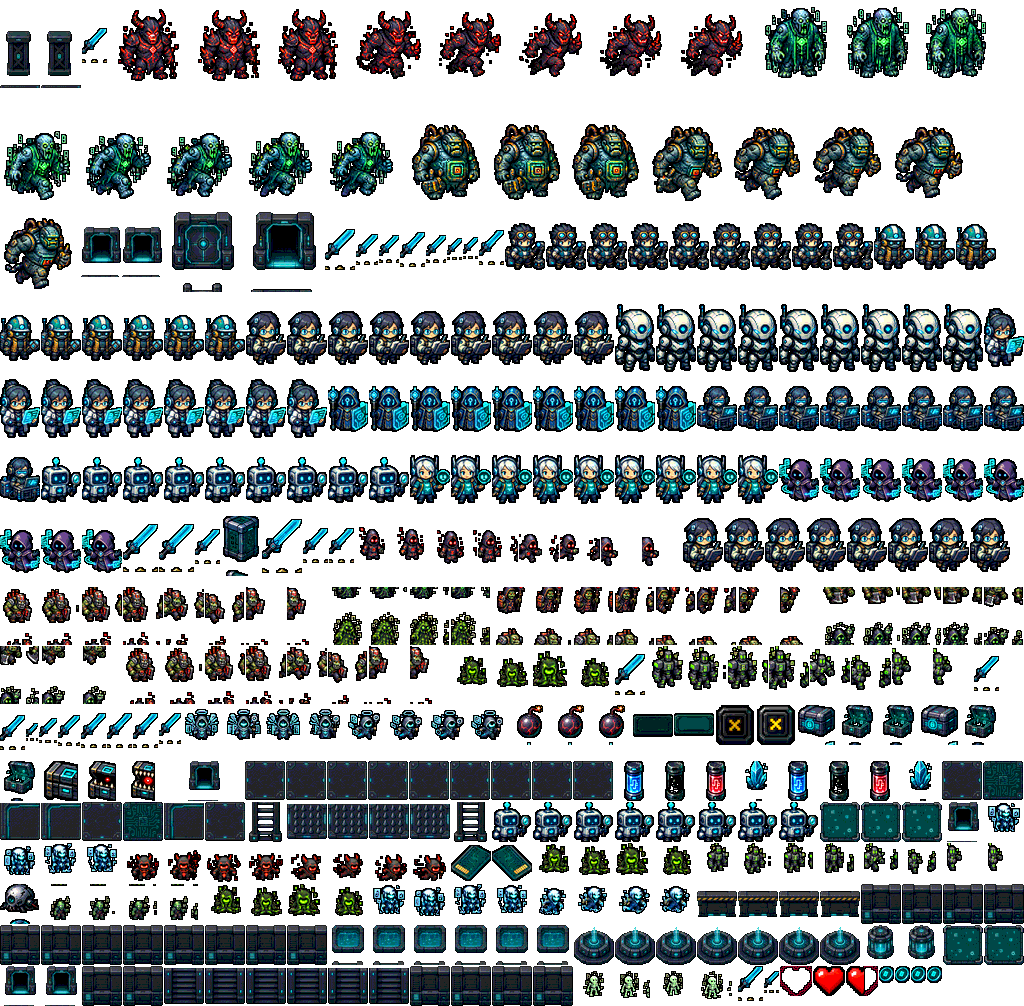
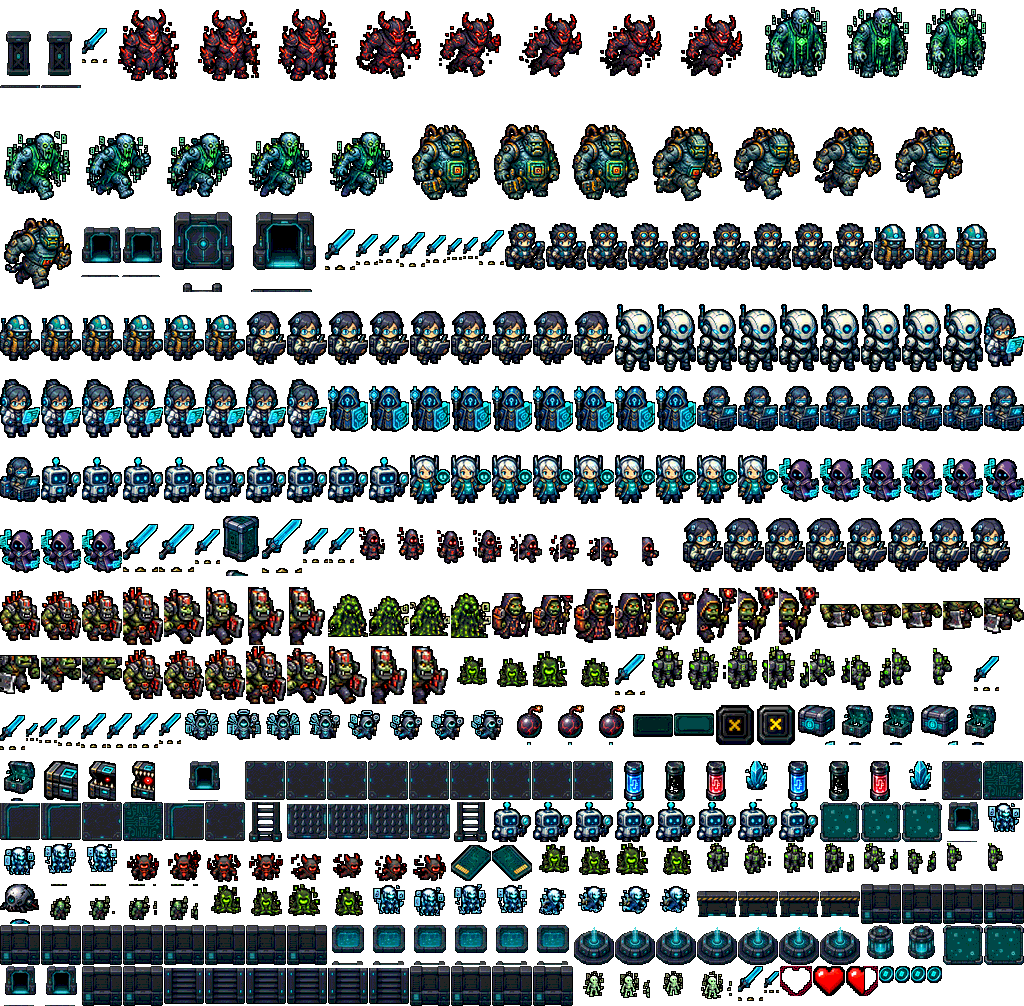
fix: 🩹 enemies-16x23 碎片怪 cleanup 改 dark-grid+largest-alpha
HD 烘焙后暴露:masked_orc/orc_shaman/orc_warrior/necromancer/pumpkin_dude
(enemies-16x23.png row1-4)的源 cell 在统一 7×8 网格下吃进相邻 sprite 渗入 +
散落辉光粒子,dark-grid cleanup 只去暗底全保留 → 烘成「主体+分离碎块」。
给这 5 个 row 的 cleanup 追加 +largest-alpha(只留最大连通块),重烘双包。

验证:逐帧 diff 仅这 5 类敌人帧变化(英雄/地砖/道具/Boss 未动);
量化 detached 这 5 类降到 0 可疑帧(总可疑 neon 73→37/synth 66→30,余者为
剑+柄/柱+座等良性多部件);dungeon.json 零变化(布局不变,仅像素)。
pytest 12 / bun test 1054·0 / tsc 0 / biome 0 / verify:artpack 双包通过。

Changed region(s): [[0.0, 0.5855, 1.0, 0.7087]]

diff --git a/scripts/art/apply-gpt-image-overrides.py b/scripts/art/apply-gpt-image-overrides.py
@@ -578,6 +578,7 @@ def source_row_overrides(
     row: int,
     frames: list[str],
     source_cols_for_frames: list[int],
+    cleanup: str = "dark-grid",
 ) -> tuple[Override, ...]:
     return tuple(
         {
@@ -586,7 +587,7 @@ def source_row_overrides(
             "sourceCell": row * source_cols + source_col,
             "sourceCols": source_cols,
             "sourceRows": source_rows,
-            "cleanup": "dark-grid",
+            "cleanup": cleanup,
             "frame": frame,
         }
         for frame, source_col in zip(frames, source_cols_for_frames)
@@ -617,7 +618,9 @@ def enemy_16x16_anim_row(prefix: str, row: int) -> tuple[Override, ...]:
     )
 
 
-def enemy_16x23_row(prefix: str, row: int) -> tuple[Override, ...]:
+def enemy_16x23_row(
+    prefix: str, row: int, cleanup: str = "dark-grid"
+) -> tuple[Override, ...]:
     return source_row_overrides(
         category="enemies",
         source_sheet="enemies/enemies-16x23.png",
@@ -626,10 +629,13 @@ def enemy_16x23_row(prefix: str, row: int) -> tuple[Override, ...]:
         row=row,
         frames=idle_run_frame_names(prefix),
         source_cols_for_frames=[0, 1, 2, 3, 4, 5, 6, 6],
+        cleanup=cleanup,
     )
 
 
-def enemy_16x23_anim_row(prefix: str, row: int) -> tuple[Override, ...]:
+def enemy_16x23_anim_row(
+    prefix: str, row: int, cleanup: str = "dark-grid"
+) -> tuple[Override, ...]:
     return source_row_overrides(
         category="enemies",
         source_sheet="enemies/enemies-16x23.png",
@@ -638,6 +644,7 @@ def enemy_16x23_anim_row(prefix: str, row: int) -> tuple[Override, ...]:
         row=row,
         frames=[f"{prefix}_anim_f{i}" for i in range(4)],
         source_cols_for_frames=list(range(4)),
+        cleanup=cleanup,
     )
 
 
@@ -659,10 +666,13 @@ ENEMY_OVERRIDES: tuple[Override, ...] = (
     *enemy_16x16_anim_row("ice_zombie", 2),
     *enemy_16x16_anim_row("muddy", 3),
     *enemy_16x23_row("chort", 0),
-    *enemy_16x23_row("masked_orc", 1),
-    *enemy_16x23_row("orc_shaman", 2),
-    *enemy_16x23_row("orc_warrior", 3),
-    *enemy_16x23_anim_row("necromancer", 4),
+    # rows 1-4 sit mid-sheet where the uniform 7x8 grid catches scattered glow
+    # particles + bleed from adjacent sprites; keep only the largest alpha blob
+    # so the HD bake renders one coherent creature instead of fragments.
+    *enemy_16x23_row("masked_orc", 1, cleanup="dark-grid+largest-alpha"),
+    *enemy_16x23_row("orc_shaman", 2, cleanup="dark-grid+largest-alpha"),
+    *enemy_16x23_row("orc_warrior", 3, cleanup="dark-grid+largest-alpha"),
+    *enemy_16x23_anim_row("necromancer", 4, cleanup="dark-grid+largest-alpha"),
     *enemy_16x23_anim_row("swampy", 5),
     *source_row_overrides(
         category="enemies",
@@ -677,7 +687,7 @@ ENEMY_OVERRIDES: tuple[Override, ...] = (
 )
 
 EXTRA_ENEMY_OVERRIDES: tuple[Override, ...] = (
-    *enemy_16x23_row("pumpkin_dude", 1),
+    *enemy_16x23_row("pumpkin_dude", 1, cleanup="dark-grid+largest-alpha"),
     *enemy_16x16_anim_row("slug", 3),
     *enemy_16x16_anim_row("tiny_slug", 3),
     *source_row_overrides(
